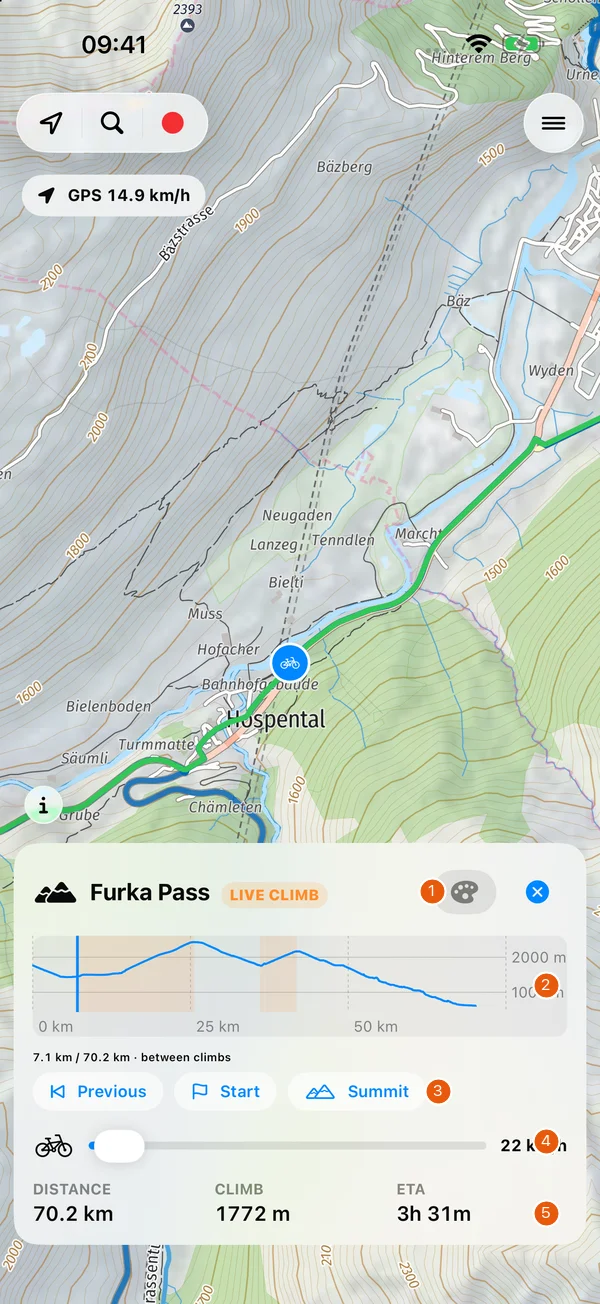
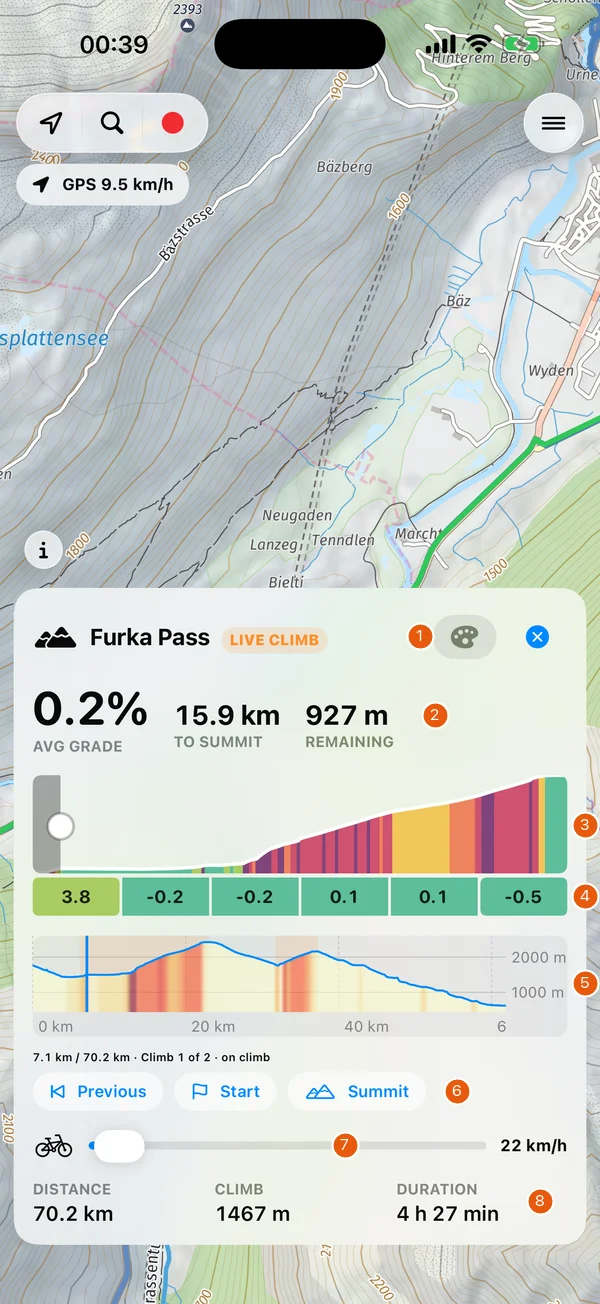
Cycloputer guide: new screenshots from build 50 (routed Aare Bern demo route instead of the hand-drawn Geneva line), Go to, saved routes, riding time, speed pedelec, navigation card, current changelog

diff --git a/docs/cycloputer/features.md b/docs/cycloputer/features.md
@@ -2,7 +2,7 @@
 
 Control names below use the English interface. In German, the app follows the iPhone language.
 
-The numbered images are actual app screenshots from build 32, captured on a dedicated iPhone simulator on 30 October 2026. They use a fictional Geneva GPX and public test routes. Navigation and climb figures are simulated. Newer builds can differ. Only the explanatory number markers have been added.
+The numbered images are actual app screenshots from build 50, captured on a new iPhone simulator on 5 November 2026. The sample route «Aare Bern» was calculated with the app's offline routing on OpenStreetMap ways, and its elevations come from the app's terrain model. Navigation and climb figures come from simulated rides on public test routes. Newer builds can differ. Only the explanatory number markers have been added.
 
 ## Map and search
 
@@ -10,7 +10,7 @@ The numbered images are actual app screenshots from build 32, captured on a dedi
 
 <div class="screenshot-guide__image" markdown="1">
 
-![Map with a fictional loaded GPX route and numbered controls](img/map-route.webp){ width=300 }
+![Map with the sample route Aare Bern, its route card and numbered controls](img/map-route.webp){ width=300 }
 
 </div>
 
@@ -20,17 +20,21 @@ The numbered images are actual app screenshots from build 32, captured on a dedi
 | --- | --- | --- |
 | 1 | Position, search and record controls | Follow your position, find a place or start a ride recording |
 | 2 | Map menu | Open routes, map style, overlays, settings and About |
-| 3 | Expand route card | Open Route details |
-| 4 | Start navigation | Follow the loaded route using your position |
-| 5 | Simulate | Preview the loaded route without riding |
-| 6 | Elevation profile | Inspect the loaded route's elevations; this example uses fictional GPX values |
+| 3 | Route name | Name the route; for a saved route the new name applies at once |
+| 4 | Folder | Put the route into a coloured folder |
+| 5 | Expand route card | Open Route details |
+| 6 | Source labels | Where the route line and the elevations come from |
+| 7 | Start navigation | Follow the loaded route using your position |
+| 8 | Simulate | Preview the loaded route without riding |
+| 9 | Elevation profile | Elevation along the route, coloured by the grade in your direction of travel; drag across it to see the spot on the map |
+| 10 | Distance, climb and duration | Duration is the riding time over the profile (see [riding time](#riding-time)) |
 
 </div>
 
 </div>
 
 
-The map menu contains Map style and Overlays. Bicycle emphasises the cycle network and terrain. Car uses a road-map style. Appearance can be Bright, Dark or Auto, which follows the iPhone's appearance. Changing the map type also resets the default route overlays.
+The map menu contains Map style and Overlays. Bicycle emphasises the cycle network and terrain. Car uses a road-map style. Appearance can be Bright, Dark or Auto, which follows the iPhone's appearance. Changing the map type also resets the default route overlays. Battery saver shows a black map with only roads, names and your route.
 
 Overlays control cycle routes, hiking routes, public transport stops and points of interest. Railway and tram lines remain part of the base map. About › App Guide › Map Legend explains the symbols for the selected style. Map data & licences is available from the map menu and the map's information control.
 
@@ -44,7 +48,7 @@ Use the magnifying glass for place/address search or nearby categories such as t
 
 <div class="screenshot-guide__image" markdown="1">
 
-![3D view with numbered mode and gesture controls](img/terrain-3d.webp){ width=300 }
+![3D view of Bern with numbered mode and gesture controls](img/terrain-3d.webp){ width=300 }
 
 </div>
 
@@ -62,25 +66,54 @@ Use the magnifying glass for place/address search or nearby categories such as t
 
 </div>
 
-In Tilt mode the level control recalibrates the view. The 3D view needs a connection even when the offline map is installed.
+Tilting the map with two fingers on the flat map also opens the 3D view. In Tilt mode the level control recalibrates the view. The 3D view needs a connection even when the offline map is installed.
 
 
 ## Plan and inspect a route
 
-Tap Plan to enter the Route builder. Tap the map to place waypoints. Hold and drag a waypoint to move it. The editor offers:
+Tap Plan to enter the Route builder. Tap the map to add waypoints; each tap continues from the last point. Tap or drag a waypoint to select it; a red button above it deletes it, and the next tap on the map only releases the selection. Put your finger on the route line and drag it: the route is recalculated through your finger while you drag, and a new waypoint appears where you let go, already selected. The editor offers:
 
 | Control | Use |
 | --- | --- |
-| Undo | Remove the last waypoint |
+| Undo | Revert the last drawing action (also by shaking the iPhone) |
 | Reverse | Reverse the direction of the route |
 | Loop | Join the route back to its start |
-| Points | Inspect and manage the waypoints |
-| Options | Choose travel mode, road preference and gradient preference |
-| Simulate | Preview the route and its climbs |
+| Options | Choose travel mode (bicycle, speed pedelec, hiking, car), road preference and gradient preference |
 | Save | Save the current route as GPX |
 | Cancel | Leave the route editor |
 
-Open Route details from the loaded route card to inspect distance, ascent, descent, ETA and the elevation profile. The route and elevation source labels distinguish imported GPX data, calculated routes, terrain data and straight-line estimates. Missing elevation data stays unavailable.
+The speed pedelec mode is for e-bikes up to 45 km/h. With the offline routing package it keeps routes to paved ways and assumes a higher cruising speed. It does not check restrictions for mopeds, so follow the signs. The travel mode is remembered for later routes.
+
+### Go to a place
+
+<div class="screenshot-guide" markdown="1">
+
+<div class="screenshot-guide__image" markdown="1">
+
+![Proposed routes to the Rosengarten in Bern with numbered controls](img/go-to.webp){ width=300 }
+
+</div>
+
+<div class="screenshot-guide__details" markdown="1">
+
+| # | Element | Function |
+| --- | --- | --- |
+| 1 | Destination | The place you pressed and held on the map or picked in the search |
+| 2 | Place name | Shown as the route's name until you rename it |
+| 3 | Folder | Choose a folder before saving |
+| 4 | Alternatives | Riding time and distance of each proposal; tap one or its grey line to select it |
+| 5 | Drag hint | Drag the line to change the route |
+| 6 | Start navigation | Navigate without saving; the proposal is discarded when the navigation ends |
+| 7 | Save | Keep the proposal as a saved route |
+| 8 | Route figures | Distance, climb and riding time of the selected proposal |
+
+</div>
+
+</div>
+
+Press and hold a place on the map or pick a search result, choose the travel mode next to Route if needed, and tap Route. The app takes a fresh position and proposes routes from there, up to three where the routing offers alternatives. If you leave a proposed route while navigating, a new route is calculated through the waypoints still ahead.
+
+### Route details
 
 <div class="screenshot-guide" markdown="1">
 
@@ -94,8 +127,8 @@ Open Route details from the loaded route card to inspect distance, ascent, desce
 
 | # | Element | Function |
 | --- | --- | --- |
-| 1 | Overview | Distance, ascent, descent and estimated time |
-| 2 | Elevation profile | Elevation over route distance |
+| 1 | Overview | Distance, ascent, descent and riding time |
+| 2 | Preview | Elevation over route distance |
 | 3 | Source labels | State where the route line and elevations came from |
 | 4 | Simulate Route | Preview the route |
 | 5 | File | Name of the saved GPX file |
@@ -105,24 +138,30 @@ Open Route details from the loaded route card to inspect distance, ascent, desce
 
 </div>
 
+The route and elevation source labels distinguish imported GPX data, calculated routes, terrain data and straight-line estimates. Missing elevation data stays unavailable.
 
 Road and gradient preferences affect local routing with the offline routing package. They are not guarantees about the surface or difficulty of a route. See [how routing is selected](routing-and-data.md#route-calculation).
 
+### Riding time
+
+Riding time uses the elevation profile and a speed on level ground for each travel mode (Settings › General › Riding time estimate).
+
+| Travel mode | How the time is calculated |
+| --- | --- |
+| Bicycle | Constant pedalling effort: climbs take longer, descents are faster, at most 40 km/h |
+| Speed pedelec | The motor helps on climbs; never faster than 45 km/h |
+| Hiking | DIN 33466 hiking rule: 300 m ascent or 500 m descent per hour at 4 km/h on the flat |
+| Car | The set speed; terrain is ignored |
+
+Without an elevation profile the time is the distance at the set speed. Stops, traffic, surfaces and wind are not included. During navigation the arrival time is the current time plus the time for the rest of the route, updated with every position.
+
 ## Saved routes and file exchange
-
-Open Saved routes in the map menu. Search by name, then use a route's actions menu to Load, Simulate Route, Rename…, Share GPX, Export as KML or Delete…. Recorded rides show distance, moving time and climb. Planned routes are labelled separately.
-
-Import GPX is also available in Saved routes. Importing another file with the same name creates a separate copy. Sharing GPX or KML creates a readable file containing location information. Deleting a saved route asks for confirmation and cannot be undone. The active recording cannot be renamed or deleted.
-
-## Navigation and simulation
-
-Start navigation follows a loaded route with turn prompts, street names, roundabout instructions and a preview of the next instruction. Spoken prompts can be controlled with the speaker button or Settings › General › Voice guidance. If you leave the route, the app detects the deviation and can calculate a way back.
 
 <div class="screenshot-guide" markdown="1">
 
 <div class="screenshot-guide__image" markdown="1">
 
-![Navigation dashboard showing a simulated ride and numbered controls](img/navigation.webp){ width=300 }
+![Saved Routes with the sample route and numbered controls](img/saved-routes.webp){ width=300 }
 
 </div>
 
@@ -130,17 +169,49 @@ Start navigation follows a loaded route with turn prompts, street names, roundab
 
 | # | Element | Function |
 | --- | --- | --- |
-| 1 | Rider marker | Position along the route; simulated in this image |
-| 2 | Speaker | Mute or enable spoken guidance |
-| 3 | Close | End navigation |
-| 4 | Next turn | Instruction and distance to the turn |
-| 5 | Following turn | Preview of the instruction after that |
-| 6 | Simulation controls | Pause, test a detour and adjust simulated speed; these controls belong to the simulation |
+| 1 | Import GPX | Load a GPX file from Files |
+| 2 | Search | Filter routes by name |
+| 3 | Route type | Planned route or recorded ride, with distance and date |
+| 4 | Actions | Load, Simulate Route, Rename…, Move to Folder, Share GPX, Export as KML or Delete… |
+| 5 | New folder | Create a coloured folder |
 
 </div>
 
 </div>
 
+Recorded rides show distance, moving time and climb. Routes appear on the map in their folder's colour. Importing another file with the same name creates a separate copy. Sharing GPX or KML creates a readable file containing location information. Deleting a saved route asks for confirmation and cannot be undone. Deleting a folder keeps its routes. The active recording cannot be renamed or deleted.
+
+## Navigation and simulation
+
+Start navigation follows a loaded or proposed route with turn prompts, street names, roundabout instructions and a preview of the next instruction. If you leave the route, the app detects the deviation and shows a way back or, for a proposed route, calculates a new one.
+
+<div class="screenshot-guide" markdown="1">
+
+<div class="screenshot-guide__image" markdown="1">
+
+![Navigation with turn instruction, speed and elevation profile during a simulated test ride](img/navigation.webp){ width=300 }
+
+</div>
+
+<div class="screenshot-guide__details" markdown="1">
+
+| # | Element | Function |
+| --- | --- | --- |
+| 1 | Next turn | Instruction and distance to the turn |
+| 2 | Following turn | Preview of the instruction after that |
+| 3 | Rider marker | Position along the route; simulated in this image |
+| 4 | Remaining, arrival, speed | Remaining distance, arrival time and current GPS speed |
+| 5 | Mountain | Show or hide the elevation profile (remembered) |
+| 6 | Speaker | Mute or enable spoken guidance |
+| 7 | Close | End navigation |
+| 8 | Climb left and profile | Elevation gain still ahead and the route profile with your position; on a climb the climb's own profile takes its place |
+| 9 | Test drive controls | Pause, test a detour and adjust the simulated speed; these controls belong to the simulation |
+
+</div>
+
+</div>
+
+Pinch the map with two fingers during navigation to zoom in or out around your position; the navigation keeps the zoom you chose. A Live Activity shows the next turn, the remaining distance and the arrival time on the Lock Screen and in the Dynamic Island. Spoken prompts can also be switched off in Settings › General › Voice guidance.
 
 Instructions depend on route geometry, routing and map data, as well as GPS reception. Read signs and assess the route independently. Navigation does not confirm access rights or road conditions.
 
@@ -150,7 +221,7 @@ Simulate previews the route without recording a real ride. Its controls let you 
 
 <div class="screenshot-guide__image" markdown="1">
 
-![Climb simulation with numbered profile and playback controls](img/climb.webp){ width=300 }
+![Climb simulation on the Furka test route with numbered profile and playback controls](img/climb.webp){ width=300 }
 
 </div>
 
@@ -159,10 +230,13 @@ Simulate previews the route without recording a real ride. Its controls let you 
 | # | Element | Function |
 | --- | --- | --- |
 | 1 | Palette | Colour the route by grade segments |
-| 2 | Profile | Elevation curve, highlighted climb sections and current simulation position |
-| 3 | Previous, Start, Summit | Jump between climbs and their landmarks |
-| 4 | Speed slider | Change the simulated rider's speed |
-| 5 | Route totals | Distance, climb and estimated time for the example route |
+| 2 | Climb figures | Average grade ahead, distance to the summit and elevation remaining |
+| 3 | Climb profile | The climb's elevation with the simulated position |
+| 4 | Grade segments | Grade of each segment of the climb |
+| 5 | Route profile | Whole route with its climbs highlighted |
+| 6 | Previous, Start, Summit | Jump between climbs and their landmarks |
+| 7 | Speed slider | Change the simulated rider's speed |
+| 8 | Route totals | Distance, climb and riding time for the example route |
 
 </div>
 
@@ -173,31 +247,8 @@ Simulate previews the route without recording a real ride. Its controls let you 
 
 The red record control starts a ride. The dashboard shows speed, distance and time. Use Pause or Resume as needed. End ride opens a confirmation with End and Save Ride. A recording that has ended cannot be continued.
 
-<div class="screenshot-guide" markdown="1">
-
-<div class="screenshot-guide__image" markdown="1">
-
-![Recording dashboard with numbered planning, metrics, pause and stop controls](img/recording.webp){ width=300 }
-
-</div>
-
-<div class="screenshot-guide__details" markdown="1">
-
-| # | Element | Function |
-| --- | --- | --- |
-| 1 | Plan | Open the route builder while the recording dashboard is shown |
-| 2 | Speed | Current speed and average speed; no movement was recorded in this example |
-| 3 | Distance and time | Recorded distance and elapsed ride time |
-| 4 | Pause | Pause the recording; changes to Resume while paused |
-| 5 | End ride | Ask for confirmation before ending and saving the recording |
-
-</div>
-
-</div>
-
-
-Settings › General offers metric or imperial units, the assumed speed used for ETA, map appearance, voice guidance, offline packages and Keep Display On While Recording. Settings › Climb View controls grade segments, colours and the summit celebration.
+Settings › General offers metric or imperial units, the speeds for the riding time estimate, map type and appearance, voice guidance, offline data, Keep display on and Battery saver. Settings › Climb View controls grade segments, colours and the summit celebration.
 
 Settings › Sensors currently marks heart rate, cadence and power as unavailable. Cycloputer does not connect to Bluetooth sensors or read Apple Health data.
 
-About contains Show Feature Walkthrough, Map Legend, What's New, contact and privacy information, and the safety and liability notice.
+About contains Show Feature Walkthrough, Map Legend, What's New, Feedback & Development, contact and privacy information, and the safety and liability notice.

diff --git a/docs/cycloputer/changelog.md b/docs/cycloputer/changelog.md
@@ -4,11 +4,20 @@ The same changes are listed in the app under About › App Guide › What's New.
 
 ## English
 
-### 1.0 (2026-11-03)
+### 1.0 (2026-11-04)
 
 #### Added
 
-- Feedback and development. A short form for problems, suggestions and questions that prepares an e-mail, and a link to the public list of planned and ongoing work. (About › Feedback & Development)
+- Speed pedelec mode. Choose «Speed pedelec» as travel mode in the route options or next to «Route» after picking a place: routes keep to paved ways at a higher cruising speed, and riding and arrival times use their own assumed speed (Settings › Riding time estimate, default 30 km/h). Restrictions for mopeds are not checked, so follow the signs. (Route builder › Options, «Go to»)
+- Speed and elevation profile while navigating. The navigation card shows your current speed next to the remaining distance and arrival time, and the route's elevation profile with your position and the climb still ahead. The mountain button hides the profile. (Navigation)
+- Pinch to zoom while navigating. Pinch the map during navigation to zoom in or out around your position; the navigation keeps the zoom you chose instead of returning to street level. (Navigation)
+- Route folders. Create coloured folders in Saved Routes and move routes into them; routes show in their folder's colour on the map. (Saved Routes)
+- Coloured elevation profile. The area under the elevation profile is coloured by the grade in your direction of travel, from yellow (flat or downhill) to dark red (steep). (Route card, route details)
+- Name and folder while planning. The route card has a name field and a folder button: name the route and choose its folder while drawing; for a saved route the change applies at once. (Route card)
+- Go to a place. Press and hold a place on the map, or pick a search result, and tap «Route»: Cycloputer proposes routes from your position, with alternatives to pick. Drag the line to reshape it (a waypoint appears where you let go), then start navigating. The route is only saved when you tap Save; off the route a new one is calculated. (Main map)
+- Navigation on the Lock Screen. During navigation a Live Activity shows the next turn, its distance, the remaining distance and the arrival time on the Lock Screen and in the Dynamic Island. (Navigation)
+- Battery saver. A black map with only roads, street names and your route, which uses less power on iPhones with an OLED display. (Settings › General › Display, Map menu › Map style)
+- Feedback and development. A short form for problems, suggestions and questions that goes straight to the developer and answers with a ticket number (an e-mail stays possible), and a link to the public list of planned and ongoing work. (About › Feedback & Development)
 - Cycling map of Switzerland. A topographic map with relief, contour lines and cycle routes, light and dark, plus a 3D view of the terrain. (Main map)
 - Route planning. Plan a route with waypoints, see distance, climb and an elevation profile, and save, import or export it as GPX. (Search and Routes)
 - Turn-by-turn navigation. Spoken directions with street names and haptic cues along the planned route. (Route)
@@ -16,16 +25,57 @@ The same changes are listed in the app under About › App Guide › What's New.
 - Offline maps. Download the map and routing for Switzerland for rides without a connection. (Settings › Offline data)
 - What's New. This list of changes. After an update with new features, it opens once and shows only those. (About › App Guide)
 
+#### Changed
+
+- Drag the route and see it follow. While planning, put your finger on the route line and drag it: the route is recalculated through your finger as you move, so you see the new course before letting go. Where you release it, a new waypoint appears, already selected so you can delete it with the red button. (Route builder, proposed routes)
+- Riding time follows the terrain. Riding and arrival times now count climbs and descents from the elevation profile: by bicycle at constant pedalling effort, by speed pedelec with motor help on climbs, hikes by the DIN 33466 hiking rule. Hiking and car routes have their own speeds (Settings › Riding time estimate, defaults 4 and 50 km/h) instead of the bicycle speed. (Route card, navigation, Settings)
+- Turn instructions at the top. During navigation the next turn is shown at the top of the screen; remaining distance, arrival time and the controls stay at the bottom. (Navigation)
+- Clearer route builder. All tools fit in one row. Tapping or dragging a waypoint selects it with a red delete button; the next tap only releases it. Taps continue from the last point, dragging the line adds a point in between, undo reverts the last drawing action (also by shaking the iPhone), and simulating is offered once the route is saved. (Plan)
+- Screen stays on. With «Keep display on» (on by default) the screen no longer locks while Cycloputer is open, also without a recording. (Settings › General › Display)
+
+#### Fixed
+
+- No freeze at the first voice prompt. Starting a navigation could leave the screen blank while the iPhone loaded its speech voice; the voice now loads in the background and the first prompt follows as soon as it is ready. (Navigation)
+- Route type in German. Saved Routes labels planned routes and rides in German when the app runs in German. (Saved Routes)
+- No leftover climb card. After a navigation ends, no «Live climb» card or test route name («Furka») is left at the bottom; the badge appears only while you are on a climb. (Navigation, simulation)
+- Riding time instead of «ETA». The route card shows the estimated riding time («44 min»); in German it was wrongly labelled «Ankunft». (Route card)
+- Elevation profile to the end. The elevation profile now reaches the right edge; the crosshair on the map disappears when you lift your finger. (Route card)
+
 ## Deutsch
 
-### 1.0 (2026-11-03)
+### 1.0 (2026-11-04)
 
 #### Neu
 
-- Feedback und Entwicklung. Ein kurzes Formular für Probleme, Vorschläge und Fragen, das eine E-Mail vorbereitet, und ein Link zur öffentlichen Liste der geplanten und laufenden Arbeiten. (Über die App › Feedback und Entwicklung)
+- S-Pedelec-Modus. Wählen Sie in den Routenoptionen oder neben «Route», nachdem Sie einen Ort gewählt haben, die Fortbewegungsart «S-Pedelec»: Die Routen bleiben auf befestigten Wegen und rechnen mit höherem Tempo, und Fahr- und Ankunftszeit verwenden ein eigenes angenommenes Tempo (Einstellungen › Fahrzeit-Schätzung, Standard 30 km/h). Fahrverbote für Motorfahrräder werden nicht geprüft, beachten Sie die Signalisation. (Routenplaner › Optionen, «Zu einem Ort navigieren»)
+- Tempo und Höhenprofil beim Navigieren. Die Navigationskarte zeigt neben Restdistanz und Ankunftszeit Ihr aktuelles Tempo sowie das Höhenprofil der Route mit Ihrer Position und dem verbleibenden Aufstieg. Mit dem Bergknopf blenden Sie das Profil aus. (Navigation)
+- Zoomen beim Navigieren. Ziehen Sie die Karte während der Navigation mit zwei Fingern auseinander oder zusammen, um rund um Ihre Position zu zoomen. Die Navigation behält den gewählten Massstab bei, statt zur Strassenansicht zurückzukehren. (Navigation)
+- Routenordner. Legen Sie in «Gespeicherte Routen» farbige Ordner an und verschieben Sie Routen hinein. Auf der Karte erscheinen die Routen in der Farbe ihres Ordners. (Gespeicherte Routen)
+- Farbiges Höhenprofil. Die Fläche unter dem Höhenprofil ist nach der Steigung in Fahrtrichtung eingefärbt, von Gelb (flach oder abwärts) bis Dunkelrot (steil). (Routenkarte, Routendetails)
+- Name und Ordner beim Planen. Die Routenkarte hat ein Namensfeld und einen Ordnerknopf: Sie benennen die Route und wählen ihren Ordner schon beim Zeichnen. Bei einer gespeicherten Route gilt die Änderung sofort. (Routenkarte)
+- Zu einem Ort navigieren. Halten Sie einen Ort auf der Karte gedrückt oder wählen Sie ein Suchresultat und tippen Sie auf «Route»: Cycloputer schlägt Routen ab Ihrer Position vor, mit Alternativen zur Auswahl. Ziehen Sie an der Linie, um sie zu ändern (wo Sie loslassen, entsteht ein Wegpunkt), und starten Sie dann die Navigation. Gespeichert wird die Route nur, wenn Sie auf Speichern tippen; verlassen Sie sie, wird eine neue berechnet. (Hauptkarte)
+- Navigation auf dem Sperrbildschirm. Während der Navigation zeigt eine Live-Aktivität die nächste Abzweigung, die Distanz dorthin, die Restdistanz und die Ankunftszeit auf dem Sperrbildschirm und in der Dynamic Island. (Navigation)
+- Stromsparmodus. Eine schwarze Karte nur mit Strassen, Strassennamen und Ihrer Route, die auf iPhones mit OLED-Display weniger Strom braucht. (Einstellungen › Allgemein › Anzeige, Kartenmenü › Kartenstil)
+- Feedback und Entwicklung. Ein kurzes Formular für Probleme, Vorschläge und Fragen, das direkt beim Entwickler ankommt und mit einer Ticketnummer antwortet (eine E-Mail bleibt möglich), und ein Link zur öffentlichen Liste der geplanten und laufenden Arbeiten. (Über die App › Feedback und Entwicklung)
 - Velokarte der Schweiz. Eine topografische Karte mit Relief, Höhenlinien und Velorouten, hell und dunkel, dazu eine 3D-Ansicht des Geländes. (Hauptkarte)
 - Routenplanung. Sie planen eine Route mit Wegpunkten, sehen Distanz, Steigung und Höhenprofil und speichern, importieren oder exportieren sie als GPX. (Suche und Routen)
 - Navigation mit Abbiegehinweisen. Gesprochene Hinweise mit Strassennamen und Vibration entlang der geplanten Route. (Route)
 - Fahrten aufzeichnen. Sie zeichnen eine Fahrt mit Distanz, Tempo und Steigung auf; eine unterbrochene Aufzeichnung wird beim nächsten Start wiederhergestellt. (Hauptkarte)
 - Offline-Karten. Sie laden die Karte und das Routing der Schweiz für Fahrten ohne Verbindung herunter. (Einstellungen › Offline-Daten)
 - Neuigkeiten. Diese Liste der Änderungen. Nach einem Update mit neuen Funktionen öffnet sie sich einmal und zeigt nur diese. (Über die App › Einführung)
+
+#### Geändert
+
+- Route ziehen und mitverfolgen. Legen Sie beim Planen den Finger auf die Routenlinie und ziehen Sie sie: Die Route wird während des Ziehens durch Ihren Finger neu berechnet, Sie sehen den neuen Verlauf also schon vor dem Loslassen. Wo Sie loslassen, entsteht ein neuer Wegpunkt. Er ist gleich ausgewählt, damit Sie ihn mit dem roten Knopf wieder löschen können. (Routenplaner, vorgeschlagene Routen)
+- Fahrzeit nach Gelände. Fahr- und Ankunftszeit berücksichtigen jetzt Aufstiege und Abfahrten aus dem Höhenprofil: mit dem Velo bei gleichbleibender Tretleistung, mit dem S-Pedelec mit Motorhilfe am Berg, Wanderungen nach der Wanderregel DIN 33466. Wander- und Autorouten haben ein eigenes Tempo (Einstellungen › Fahrzeit-Schätzung, Standard 4 und 50 km/h) statt des Velotempos. (Routenkarte, Navigation, Einstellungen)
+- Abbiegehinweise oben. Während der Navigation steht die nächste Abzweigung oben am Bildschirm; Restdistanz, Ankunftszeit und die Bedienelemente bleiben unten. (Navigation)
+- Übersichtlicherer Routenplaner. Alle Werkzeuge passen in eine Zeile. Ein angetippter oder gezogener Wegpunkt wird ausgewählt und zeigt einen roten Löschknopf; der nächste Tipp hebt die Auswahl nur auf. Tippen setzt die Route ab dem letzten Punkt fort, Ziehen an der Linie fügt einen Punkt dazwischen ein, Rückgängig macht die letzte Zeichenaktion rückgängig (auch durch Schütteln des iPhones), und die Simulation steht nach dem Speichern zur Verfügung. (Planen)
+- Bildschirm bleibt an. Mit «Bildschirm eingeschaltet lassen» (standardmässig ein) sperrt sich der Bildschirm nicht mehr, solange Cycloputer geöffnet ist, auch ohne Aufzeichnung. (Einstellungen › Allgemein › Anzeige)
+
+#### Behoben
+
+- Kein Hänger bei der ersten Sprachansage. Beim Start einer Navigation konnte der Bildschirm leer bleiben, solange das iPhone seine Sprachstimme lud. Die Stimme lädt jetzt im Hintergrund, und die erste Ansage folgt, sobald sie bereit ist. (Navigation)
+- Routenart auf Deutsch. «Gespeicherte Routen» bezeichnet geplante Routen und Fahrten auf Deutsch, wenn die App auf Deutsch läuft. (Gespeicherte Routen)
+- Keine übrig gebliebene Anstiegskarte. Nach dem Ende einer Navigation bleibt unten keine Karte «Live-Anstieg» und kein Testroutenname («Furka») mehr stehen; das Abzeichen erscheint nur auf einem Anstieg. (Navigation, Simulation)
+- Fahrzeit statt «Ankunft». Die Routenkarte zeigt die geschätzte Fahrzeit («44 min»), sie war fälschlich mit «Ankunft» beschriftet. (Routenkarte)
+- Höhenprofil bis zum Ende. Das Höhenprofil reicht jetzt bis zum rechten Rand, und das Fadenkreuz auf der Karte verschwindet, sobald Sie den Finger heben. (Routenkarte)

diff --git a/docs/cycloputer/routing-and-data.md b/docs/cycloputer/routing-and-data.md
@@ -2,11 +2,11 @@
 
 ## Route calculation
 
-Cycloputer first tries the downloaded routing data. A successful local calculation takes place on the iPhone. If local routing cannot produce a route, the app tries Apple Maps directions, which send the waypoints to Apple. Bicycle mode requests cycling directions. Sections without directions remain marked straight-line estimates.
+Cycloputer first tries the downloaded routing data. A successful local calculation takes place on the iPhone. If local routing cannot produce a route, the app tries Apple Maps directions, which send the waypoints to Apple. Bicycle and Speed pedelec modes request cycling directions from Apple. With the routing package, Speed pedelec uses the road bike profile, which keeps to paved ways; neither source checks restrictions for mopeds. Sections without directions remain marked straight-line estimates.
 
 Downloading routing data therefore does not provide a switch that forbids every Apple request. Check the route source shown in Route details. A GPX file supplies its own route line and is not automatically matched to roads.
 
-The elevation profile uses elevations from the GPX file or Cycloputer's terrain model, with its source shown. It is not a survey of current conditions. The ETA uses the assumed speed selected in Settings › General.
+The elevation profile uses elevations from the GPX file or Cycloputer's terrain model, with its source shown. It is not a survey of current conditions. Riding and arrival times follow the elevation profile and the speed on level ground set for the travel mode in Settings › General › Riding time estimate (see [riding time](features.md#riding-time)).
 
 ## Offline data
 
